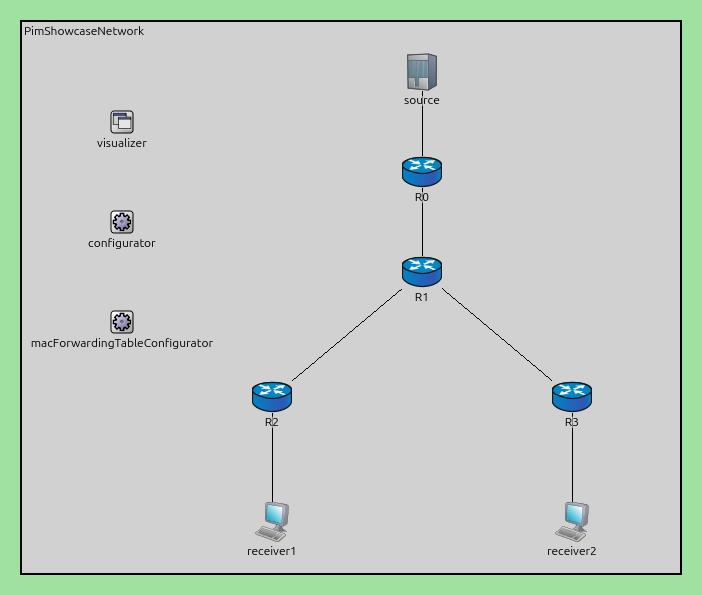
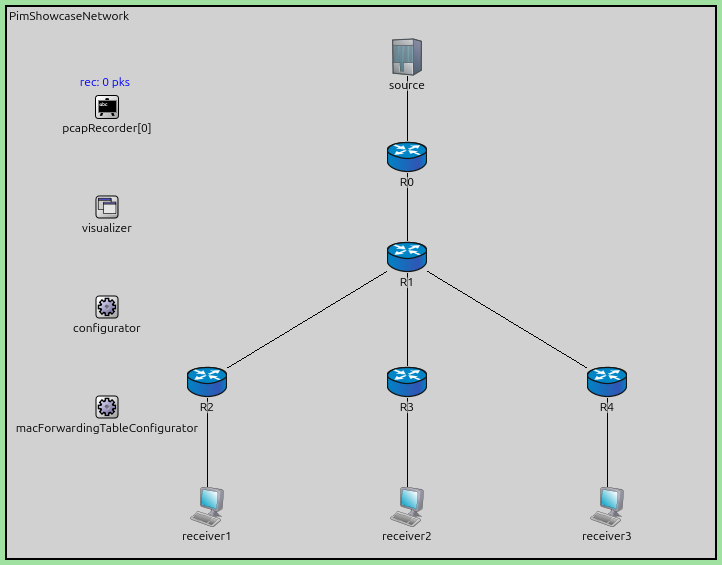
Reorganize PIM showcase docs: add 'PIM in INET' section, update screenshots, refine RPF and RP explanations

diff --git a/showcases/routing/pim2/doc/index.rst b/showcases/routing/pim2/doc/index.rst
@@ -138,15 +138,71 @@ PIM-SM is defined in RFC 4601.
    packet is ever delivered, followed by a brief gap until the native (S,G)
    path propagates.
 
+PIM in INET
+-----------
+
+The :ned:`MulticastRouter` node type is a standard :ned:`Router` with PIM and IGMP
+protocols enabled (``hasPim = true``) and multicast forwarding turned on by
+default. Inside each router, the compound module ``pim`` contains a :ned:`PimDm`
+and a :ned:`PimSm` submodule (both always present), along with a splitter that
+directs incoming PIM packets to the appropriate mode based on the receiving
+interface's configuration. Every router along a multicast path must run PIM so it
+can process Join/Prune messages and build its own multicast forwarding state.
+
+.. figure:: media/PimModule.png
+
+PIM relies on *Reverse Path Forwarding (RPF) checks* to prevent loops. When a
+multicast packet arrives at a router, PIM looks up the source address (or the RP
+address, for shared trees) in the unicast routing table and checks whether the
+packet arrived on the interface that leads back towards that address. If it did,
+the packet is accepted and forwarded. If it arrived on a different interface —
+for example, because of a redundant path in the network — the packet is dropped.
+This prevents forwarding loops and duplicate delivery. The
+:ned:`Ipv4NetworkConfigurator` populates the unicast routes that PIM uses for
+these checks.
+
+**Configuring PIM mode.** PIM is enabled on router interfaces using the
+``pimConfig`` parameter, an XML string that specifies the mode:
+
+.. code-block:: ini
+
+   # For Dense Mode:
+   **.pimConfig = xml("<config><interface mode='dense'/></config>")
+
+   # For Sparse Mode:
+   **.pimConfig = xml("<config><interface mode='sparse'/></config>")
+
+**Configuring the Rendezvous Point (PIM-SM only).** The RP address is set via the
+``RP`` parameter of the :ned:`PimSm` module (path: ``**.pim.pimSM.RP``). All
+routers are configured with the same address. The router that owns this address
+recognizes itself as the RP. You can assign a well-known address to any interface
+on the RP router using the :ned:`Ipv4NetworkConfigurator` XML — the configurator
+will then automatically generate unicast routes to it from all other routers
+(which is necessary for Join and Register messages to reach the RP):
+
+.. code-block:: ini
+
+   **.configurator.config = xml("<config>..." \
+       "<interface hosts='R1' towards='R0' address='10.99.0.1' netmask='255.255.255.0'/>" \
+       "...</config>")
+   **.pim.pimSM.RP = "10.99.0.1"
+
+.. note::
+
+   The INET PIM-SM implementation has some limitations compared to the full
+   RFC 4601 specification: only a single global RP is supported (configured
+   statically), switchover to the Shortest Path Tree (SPT) is not implemented,
+   and PIM Bootstrap / RP discovery mechanisms are not available.
+
 The Model
 ---------
 
 We use two network topologies in this showcase. The first, ``PimShowcaseNetwork``,
 is a simple tree topology used for both the PIM-DM and PIM-SM configurations.
 A :ned:`StandardHost` (``source``) sends UDP multicast traffic to the group
-address ``239.1.1.1`` through four :ned:`MulticastRouter` nodes (R0–R3) to two
+address ``239.1.1.1`` through five :ned:`MulticastRouter` nodes (R0–R4) to three
 receivers. R0 is the source's directly connected router, R1 is the tree root,
-and R2/R3 branch towards the receivers. The receivers run :ned:`UdpSink`
+and R2, R3, and R4 branch towards the receivers. The receivers run :ned:`UdpSink`
 applications configured to join this multicast group.
 
 .. figure:: media/PimShowcaseNetwork.png
@@ -158,53 +214,8 @@ The second network, ``PimIptvNetwork``, models a more realistic scenario. Nine
 .. figure:: media/PimIptvNetwork.png
 
 Both networks extend :ned:`WiredNetworkBase` (which provides an
-:ned:`Ipv4NetworkConfigurator`). The configurator automatically assigns IP
-addresses and populates static unicast routes. PIM needs these unicast routes for
-*Reverse Path Forwarding (RPF) checks* — when a multicast packet arrives at a
-router, PIM verifies that it arrived on the interface that the unicast routing
-table considers the shortest path back towards the source (or the RP, for shared
-trees). This check prevents forwarding loops and ensures packets travel along the
-correct distribution tree. All routers are :ned:`MulticastRouter` nodes —
-:ned:`Router` nodes with PIM enabled (``hasPim = true``) and multicast forwarding
-turned on by default. Every router along the path must run PIM so it can
-process Join and Prune messages and build its own multicast forwarding state
-(i.e., learn which interfaces to forward each group's traffic to).
-
-.. note::
-
-   The INET PIM-SM implementation has some limitations compared to the full
-   RFC 4601 specification: only a single global RP is supported (configured
-   statically), switchover to the Shortest Path Tree (SPT) is not implemented,
-   and PIM Bootstrap / RP discovery mechanisms are not available.
-
-PIM configuration
-~~~~~~~~~~~~~~~~~
-
-PIM is configured on router interfaces using the ``pimConfig`` parameter. This is
-an XML string that specifies which mode to use:
-
-.. code-block:: ini
-
-   # For Dense Mode:
-   **.pimConfig = xml("<config><interface mode='dense'/></config>")
-
-   # For Sparse Mode:
-   **.pimConfig = xml("<config><interface mode='sparse'/></config>")
-
-For PIM-SM, the Rendezvous Point must also be configured by setting the ``RP``
-parameter of the :ned:`PimSm` module to an IP address belonging to the designated
-RP router. The RP router identifies itself by checking whether the configured RP
-address is local to one of its interfaces. A convenient way to assign a
-well-known address is to configure the RP router's loopback interface in the
-:ned:`Ipv4NetworkConfigurator` XML — the configurator will then generate routes
-to it from all other routers:
-
-.. code-block:: ini
-
-   **.configurator.config = xml("<config>..." \
-       "<interface hosts='R1' names='lo0' address='10.99.0.1' netmask='255.255.255.255'/>" \
-       "...</config>")
-   **.pim.pimSM.RP = "10.99.0.1"
+:ned:`Ipv4NetworkConfigurator` for automatic IP address assignment and unicast
+route generation).
 
 PIM-DM Configuration
 ~~~~~~~~~~~~~~~~~~~~~